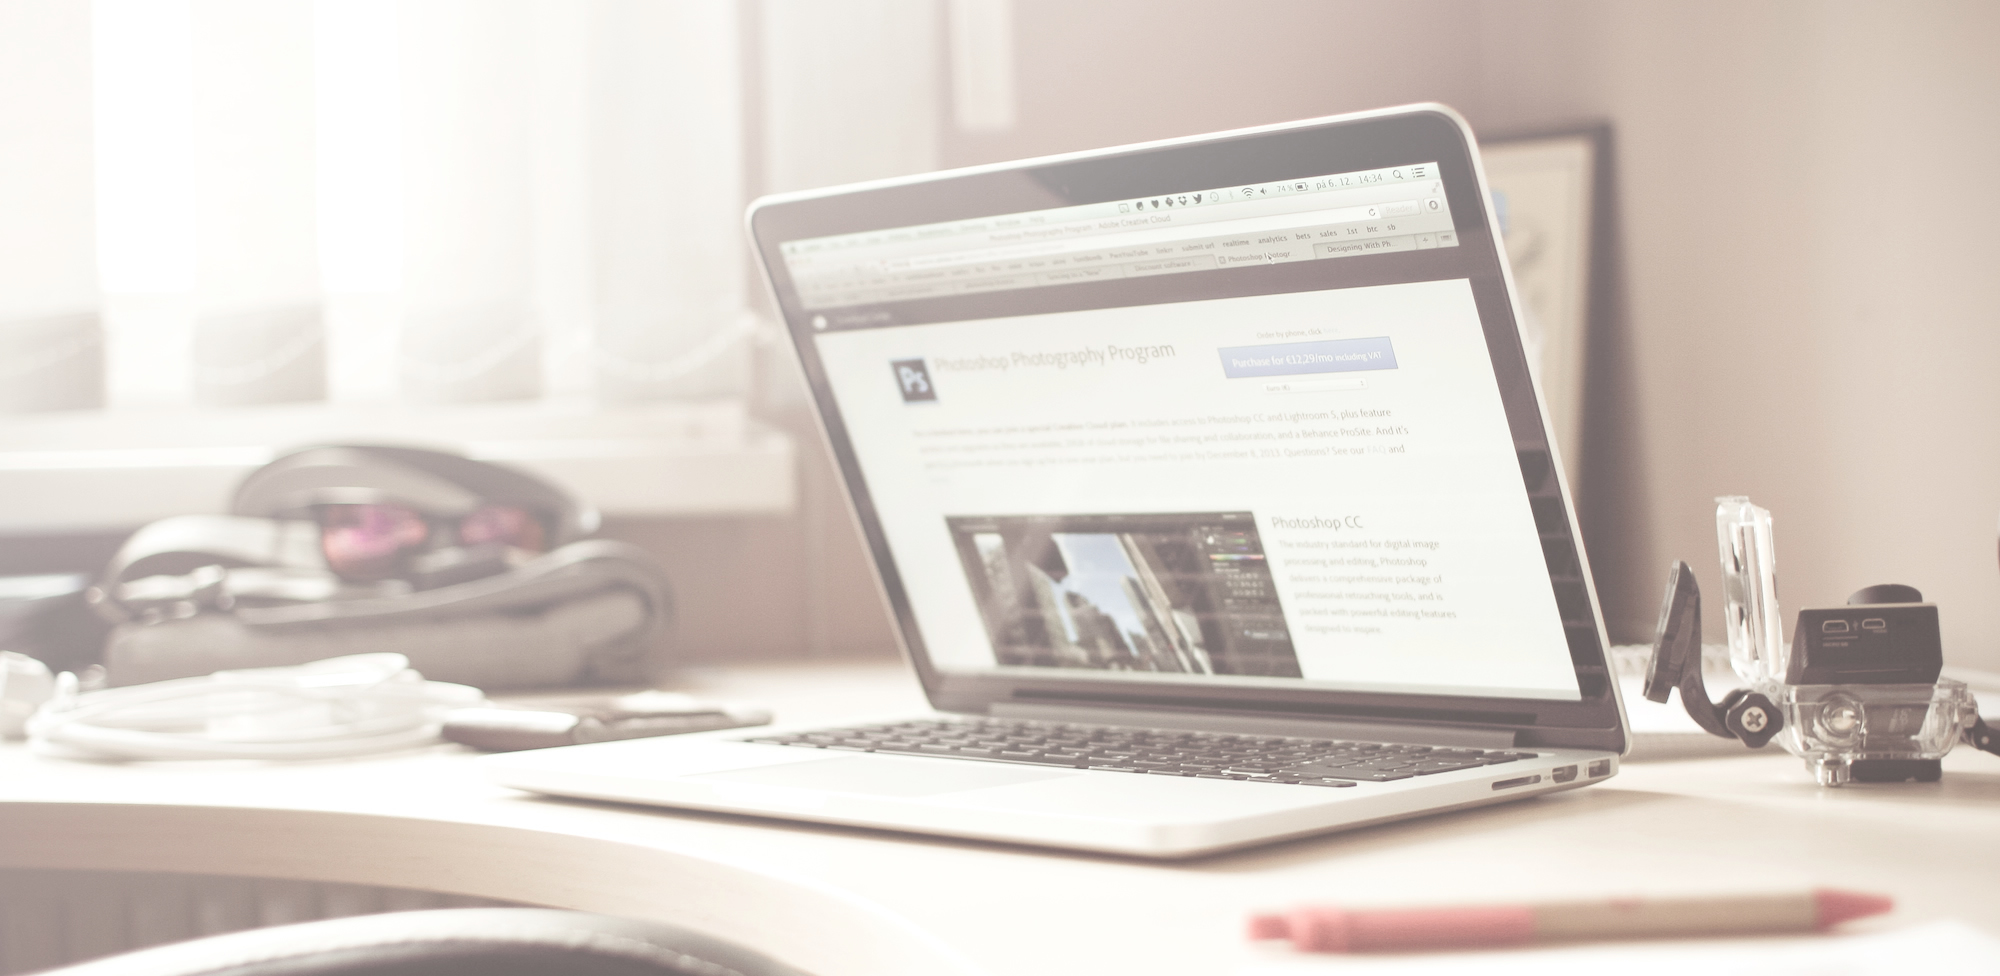
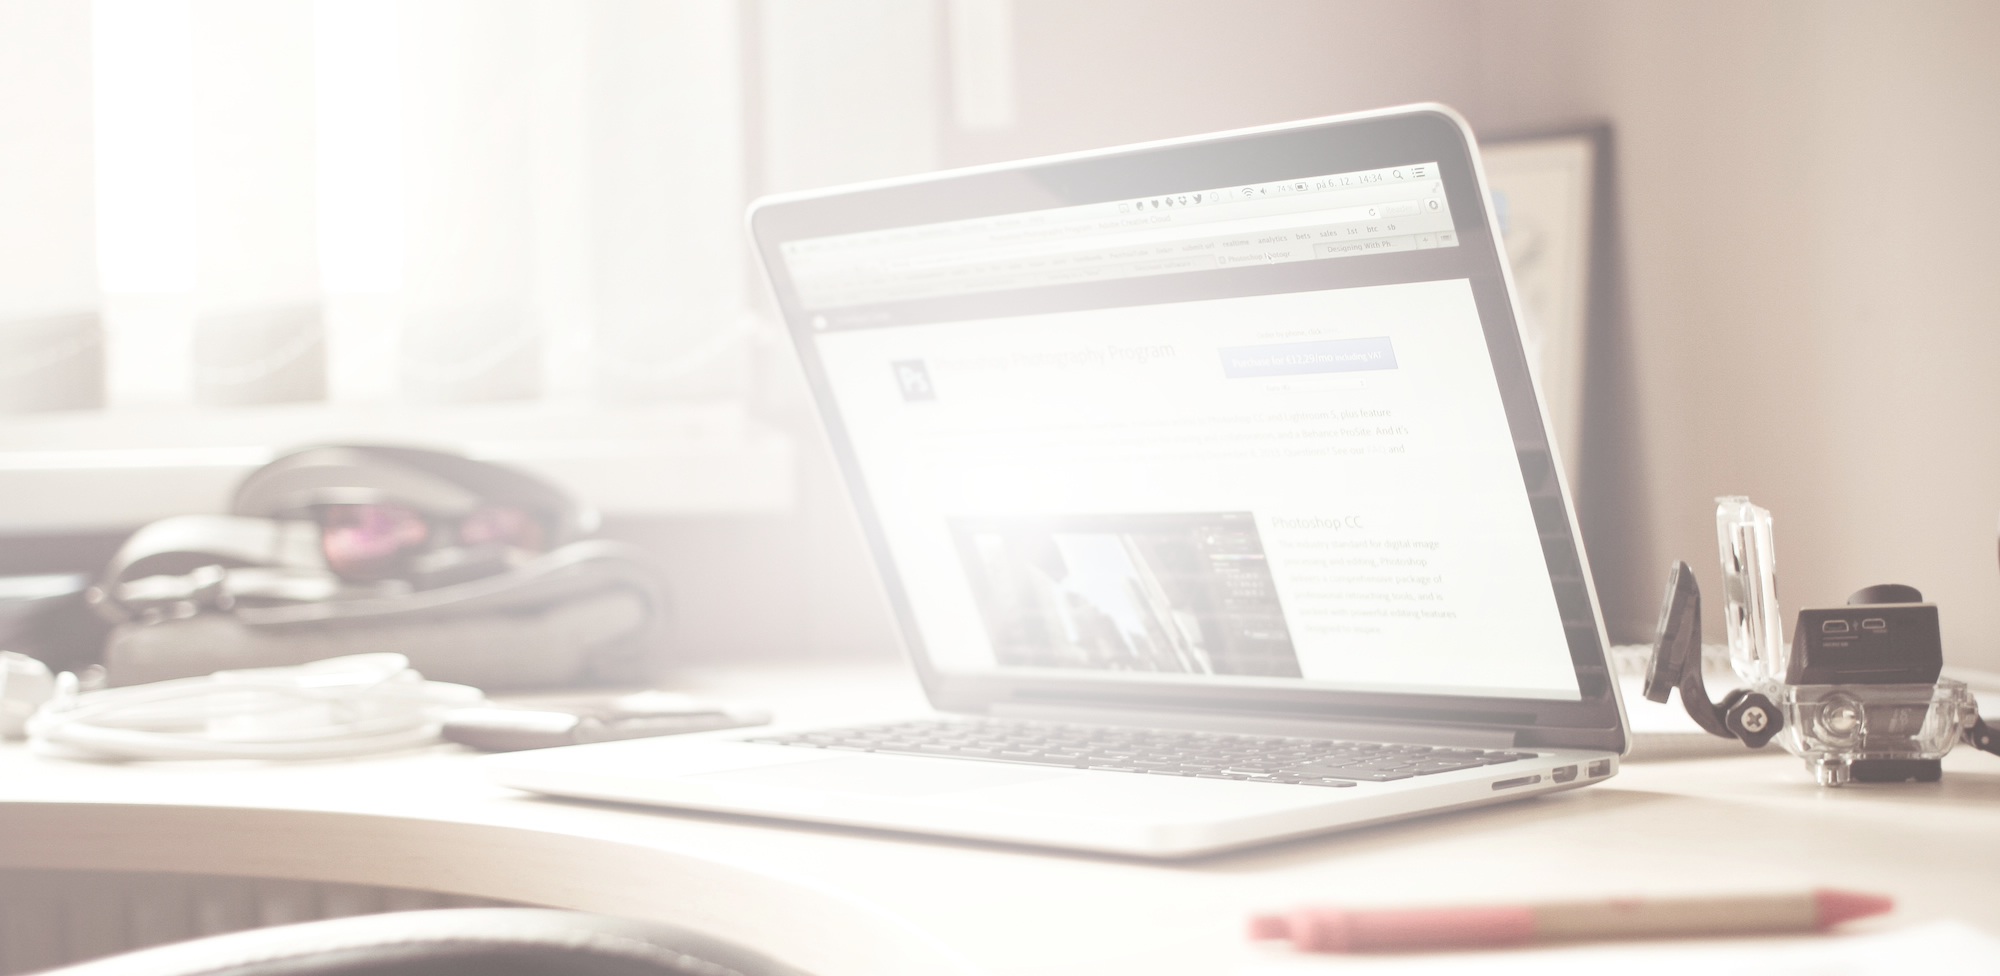
adjusted media queries -index

Changed region(s): [[0.186, 0.0922, 0.837, 0.8914], [0.62, 0.3689, 0.651, 0.3996]]

diff --git a/public/style.css b/public/style.css
@@ -91,11 +91,11 @@ body {
 }
 
 .indexBox {
-	margin: 3% 0% 0% 5%;
+	margin: 5% 0% 0% 33%;
 	width: 30%;
 	position: absolute;
-
 	font-family: raleway;
+	text-align: center;
 }
 
 .indexBoxText h1 {
@@ -115,7 +115,7 @@ body {
 }
 
 .indexNav {
-	margin: 400px 0% 0% 3%;
+	margin: 25% 0% 0% 32%;
 	width: 30%;
 	position: absolute;
 
@@ -476,6 +476,13 @@ body {
 /*Media Queries --------------------------------------------------------------*/
 
 /*Smaller Desktop -----------------------------*/
+@media (max-width: 1666px) {
+	.indexNav {
+		margin: 27% 0% 0% 32%;
+	}
+}
+
+
 @media (max-width: 1620px) {
 	#titleSection {
 		background: url("background.jpg") fixed repeat-y !important;
@@ -483,6 +490,7 @@ body {
 	.indexBox {
 		background-color: #fff;
 		padding: 20px;
+		margin: 3% 0% 0% 5%;
 	}
 	.indexNav {
 		width: 50%;
@@ -551,6 +559,7 @@ body {
 /*Tablet Size -----------------------------*/
 @media (max-width: 1024px)  {
 	#titleSection {
+		background: url("background.jpg") fixed no-repeat !important;
 		height: 1800px;
 	}
 	.indexBox, .indexNav {
